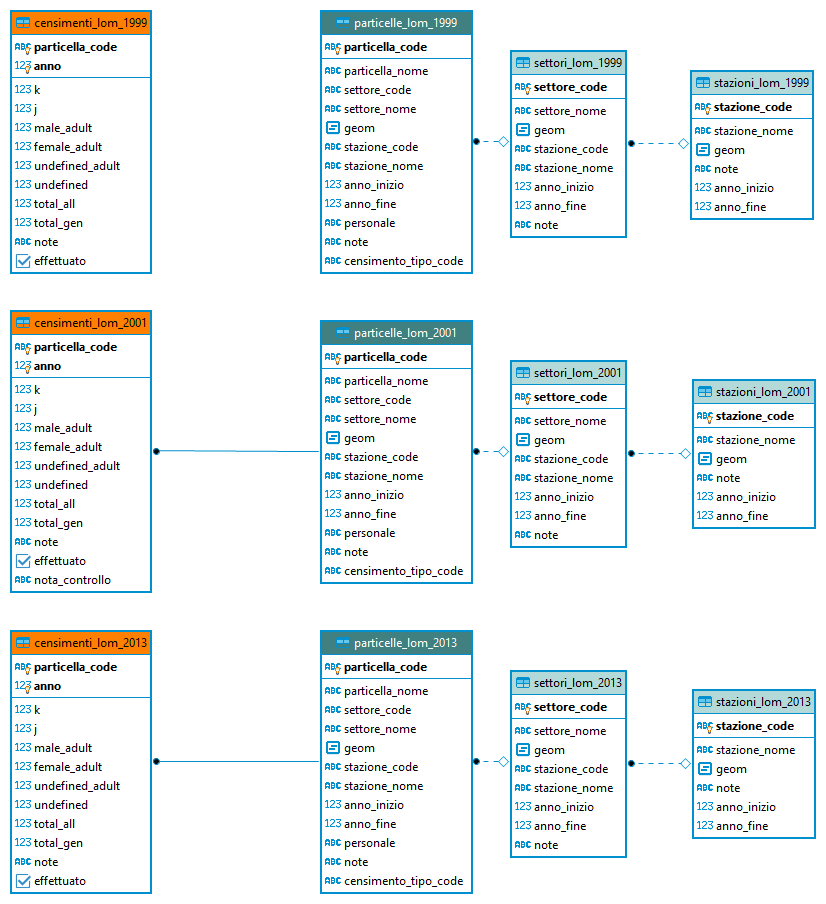
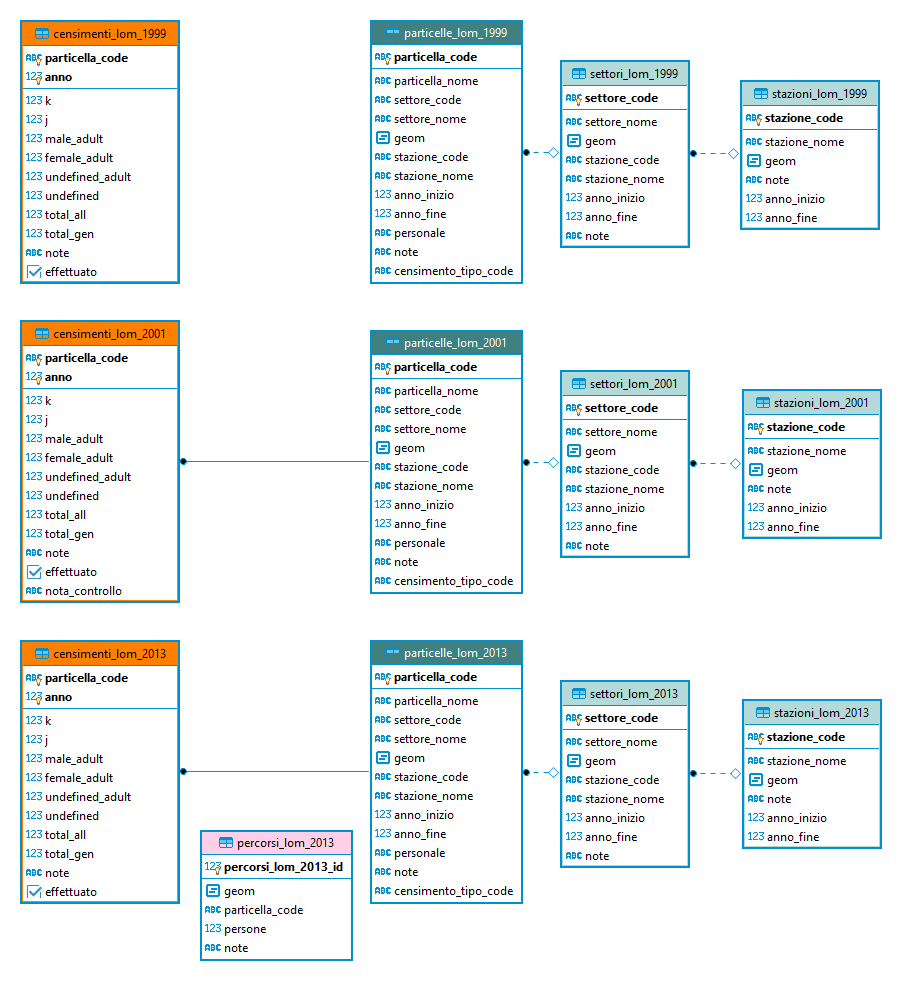
aggiunto stambecco - draft

diff --git a/README.md b/README.md
@@ -6,7 +6,7 @@
 
 Questo manuale è la descrizione del database fauna del **[Parco Nazionale dello Stelvio](www.stelviopark.it)** (PNS). L'obiettivo è documentarne la struttura e le procedure di aggiornamento e consultazione.
 
-Ultimo aggiornamento: **03/04/2020**  
+Ultimo aggiornamento: **22/05/2020**  
 Autore: **Ferdinando Urbano**  
 
 In collaborazione con:  
@@ -112,7 +112,7 @@ WHERE numero_individui_totale > 50;
 
 Una **chiave primaria**, nel modello relazionale delle basi di dati, è un insieme di attributi che permette di individuare univocamente un record in una tabella o relazione.  
 La chiave primaria è costituita da una o più colonne della tabella (in questo secondo caso viene definita chiave composta). La chiave primaria è unica per ogni tabella. Una tabella deve obbligatoriamente possedere una e una sola chiave primaria, e nessun record nella tabella può avere il valore, o i valori, di un campo attributo identificato dalla chiave primaria identico a quello di un qualsiasi altro valore della stessa (vincolo di unicità): il tentativo di inserimento di un tale valore genera un errore di violazione della chiave primaria.  
-Quando la chiave primaria è costituita da un solo campo, nel database è stata utilizzata la convenzione di chiamare quel campo *nome della tabella al singolare* + _ + *code*. Ad esempio, **plot_code** o **animale_code**. In genere questo corrisponde al nome con cui quell'oggetto viene comunemente chiamato e questo facilita l'uso del database e l'inserimento di nuovi dati quando si opera direttamente sulle tabelle. Quando invece questo non è stato possibile ad esempio perché non c'è un singolo campo o una combinazione di campi univoca che può essere utilizzata come chiave primaria, si è utilizzato un numero seriale (generato automaticamente dal database in modo da non essere mai ripetuto). In questo caso il nome convenzionale è *nome della tabella* + . + *id*. Ad esempio **uccelli_monitoraggio_id** (schema biodiversità). In questo caso, se il record è poi riferito da altre tabelle, andrà utilizzato questo numero generato dal database (quindi non noto a priori né riportato sulle schede di campo). Nel caso in cui il campo ha un valore codificato riconosciuto universalmente, invece del suffisso *_code* si è utilizzato *_name* (ad esempio *genus_name*).  
+Quando la chiave primaria è costituita da un solo campo, nel database è stata utilizzata la convenzione di chiamare quel campo *nome della tabella al singolare* + _ + *code*. Ad esempio, **plot_code** o **animale_code**. In genere questo corrisponde al nome con cui quell'oggetto viene comunemente chiamato e questo facilita l'uso del database e l'inserimento di nuovi dati quando si opera direttamente sulle tabelle. Quando invece questo non è stato possibile ad esempio perché non c'è un singolo campo o una combinazione di campi univoca che può essere utilizzata come chiave primaria, si è utilizzato un numero seriale (generato automaticamente dal database in modo da non essere mai ripetuto). In questo caso il nome convenzionale è *nome della tabella* + _ + *id*. Ad esempio **uccelli_monitoraggio_id** (schema biodiversità). In questo caso, se il record è poi riferito da altre tabelle, andrà utilizzato questo numero generato dal database (quindi non noto a priori né riportato sulle schede di campo). Nel caso in cui il campo ha un valore codificato riconosciuto universalmente, invece del suffisso *_code* si è utilizzato *_name* (ad esempio *genus_name*).  
 
 Come nota aggiuntiva, una **chiave esterna** è invece un insieme di attributi che fa riferimento a una chiave di un'altra tabella, permettendo in tal modo di esplicitare relazioni di tipo uno a molti tra tabelle attraverso quello che è chiamato vincolo di integrità referenziale. In concreto, i valori riportati nella tabella per uno o più campi, devono essere contenuti nella tabella di riferimento (potremmo dire che per avere un figlio devi prima avere un padre). Questi vincoli corrispondono alle linee che collegano le tabelle nei grafici ER (entità-relazioni) include in questo manuale.  
 
@@ -222,7 +222,7 @@ library(RPostgreSQL)
 drv <- dbDriver("PostgreSQL")
 con <- dbConnect(drv, dbname="pstelvio_db", host="RICHIEDI_QUESTA_INFO_AL_RESPONSABILE_SCIENTIFICO",
 port="5433", user="YOURUSER", password="YOURPASSWORD")
-rs <- dbSendQuery(con, "select * from biodiversita.epigei_monitoraggio;")
+rs <- dbSendQuery(con, "SELECT * FROM biodiversita.epigei_monitoraggio;")
 df <- fetch(rs,-1)
 df[1:4,]
 str(df)
@@ -351,31 +351,134 @@ Per inserire o modificare specie bisogna essere amministratori.
 
 #### Descrizione generale  
 
+```diff
+Descrizione generale del dataset censimenti camoscio, della sua organizzazione, e della raccolta dati
+```
+[...]  
+
+I dati di censimento del camoscio sono organizzati per settore del Parco (Trento, Bolzano, Lombardia). I dati fanno riferimento alle unità spaziali *Parcelle*. Le parcelle sono raggruppate in settori e in stazioni. Per Trento e Bolzano esiste anche un layer sub-particelle.  
+Visto che le unità spaziali di riferimento (particelle) sono cambiate nel tempo, i dataset sono stati divisi per intervalli temporali in cui le particelle non sono cambiate. Per convenzione nel nome dei layer il suffisso corrisponde all'anno di inizio di validità. Nelle tabelle spaziali i campi *anno_inizio* e *anno_fine* specificano l'intervallo di riferimento. Nelle tabelle dei censimenti questo non è necessario perché il campo *anno* da già l'inquadramento temporale preciso del dato.  
+
+Al momento non ci sono controlli formali nelle tabelle di censimento per garantire che i totali (*total_all* e *total_gen*) corrispondano effettivamente alla somma dei valori delel singole classi di sesso/età. Questi dovrebbero essere calcolati con una funzione una volta importati i parziali nel database.
+
+[...]  
+
 #### Struttura logica
 
 [![](images/schema_censimenti_camoscio_tn.png)](https://github.com/feurbano/pns_db/blob/master/images/schema_censimenti_camoscio_tn.png?raw=true)  
+**Censimenti camoscio Trento**  
 *Se il testo non è leggibile, clicca sull'immagine per ingrandire.*
+
 
 [![](images/schema_censimenti_camoscio_lom.png)](https://github.com/feurbano/pns_db/blob/master/images/schema_censimenti_camoscio_lom.png?raw=true)  
+**Censimenti camoscio Lombardia**  
 *Se il testo non è leggibile, clicca sull'immagine per ingrandire.*
+
 
 [![](images/schema_censimenti_camoscio_bz.png)](https://github.com/feurbano/pns_db/blob/master/images/schema_censimenti_camoscio_bz.png?raw=true)  
+**Censimenti camoscio Bolzano**  
 *Se il testo non è leggibile, clicca sull'immagine per ingrandire.*
+
 
 [![](images/schema_censimenti_camoscio_distribuzione.png)](https://github.com/feurbano/pns_db/blob/master/images/schema_censimenti_camoscio_distribuzione.png?raw=true)  
+**Camoscio Distribuzione**  
 *Se il testo non è leggibile, clicca sull'immagine per ingrandire.*
-
 
 #### Lista tabelle  
 
+| TABLE | DESCRIPTION |
+| ----- | ----------- |
+| **censimenti\_bz\_1999** | <sub>Quì andrà la descrizione della tabella presa dai commenti del database che devono ancora essere compilati.</sub> |
+| **censimenti\_lom\_1999** | <sub></sub> |
+| **censimenti\_lom\_2001** | <sub></sub> |
+| **censimenti\_lom\_2013** | <sub></sub> |
+| **censimenti\_tn\_1996** | <sub></sub> |
+| **censimenti\_tn\_1999** | <sub></sub> |
+| **distribuzione\_2010** | <sub></sub> |
+| **localizzazioni\_tn\_1999** | <sub></sub> |
+| **particelle\_bz\_1999** | <sub></sub> |
+| **particelle\_lom\_1999** | <sub></sub> |
+| **particelle\_lom\_2001** | <sub></sub> |
+| **particelle\_lom\_2013** | <sub></sub> |
+| **particelle\_tn\_1996** | <sub></sub> |
+| **particelle\_tn\_1999** | <sub></sub> |
+| **percorsi\_lom\_2013** | <sub></sub> |
+| **settori\_bz\_1999** | <sub></sub> |
+| **settori\_lom\_1999** | <sub></sub> |
+| **settori\_lom\_2001** | <sub></sub> |
+| **settori\_lom\_2013** | <sub></sub> |
+| **settori\_tn\_1996** | <sub></sub> |
+| **settori\_tn\_1999** | <sub></sub> |
+| **stazioni\_bz\_1999** | <sub></sub> |
+| **stazioni\_lom\_1999** | <sub></sub> |
+| **stazioni\_lom\_2001** | <sub></sub> |
+| **stazioni\_lom\_2013** | <sub></sub> |
+| **stazioni\_tn\_1996** | <sub></sub> |
+| **stazioni\_tn\_1999** | <sub></sub> |
+| **subparticelle\_bz\_1999** | <sub></sub> |
+| **subparticelle\_tn\_1996** | <sub></sub> |
+| **subparticelle\_tn\_1999** | <sub></sub> |
+
+| VIEW | DESCRIPTION |
+| ---- | ----------- |
+| **...** | <sub></sub> |
+
 #### Protocolli di inserimento dati  
+
+```diff
+Descrizione dei protocolli di inserimento dati per i prossimi censimenti
+```
+
+[...]  
+
+Nel caso in cui la geometria delle unità spaziali (particelle) vari, devono essere create delle nuove tabelle particelle, stazioni, settori e censimenti con suffisso l'anno di inizio. Andranno poi specificate nelle tabelle del periodo precedente, l'anno di fine di validità (che è nullo per i layer "attivi"). I layer di stazioni e settori dovrebbe essere derivati da quello delle particelle con una operazione di union [*st_union(geom)*]. Se ci sono problemi di inconsistenza topologica, si possono utlizzare gli strumenti di PostGIS per correggerli.
+
+[...]  
 
 ## <a name="Censimenti_stambecco"></a> Dati Censimenti Stambecco  
 
 #### Descrizione generale  
 
+```diff
+Descrizione generale del dataset censimenti stambecco, della sua organizzazione, e della raccolta dati
+```
+[...]  
+
+
 #### Struttura logica
+
+[![](images/schema_censimenti_stambecco.png)](https://github.com/feurbano/pns_db/blob/master/images/schema_censimenti_stambecco.png?raw=true)  
+*Se il testo non è leggibile, clicca sull'immagine per ingrandire.*
 
 #### Lista tabelle  
 
+| TABLE | DESCRIPTION |
+| ----- | ----------- |
+| **avvistamenti\_occasionali** | <sub></sub> |
+| **censimenti\_2001** | <sub></sub> |
+| **censimenti\_2011** | <sub></sub> |
+| **colonie\_2011** | <sub></sub> |
+| **distribuzione\_1998** | <sub></sub> |
+| **distribuzione\_2004** | <sub></sub> |
+| **distribuzione\_2010** | <sub></sub> |
+| **distribuzione\_2011** | <sub></sub> |
+| **particelle\_2001** | <sub></sub> |
+| **particelle\_2011** | <sub></sub> |
+| **percorsi\_2011** | <sub></sub> |
+| **settori\_2001** | <sub></sub> |
+| **settori\_2011** | <sub></sub> |
+| **stazioni\_2001** | <sub></sub> |
+| **stazioni\_2011** | <sub></sub> |
+
+| VIEW | DESCRIPTION |
+| ---- | ----------- |
+| **...** | <sub></sub> |
+
 #### Protocolli di inserimento dati  
+
+
+```diff
+Descrizione dei protocolli di inserimento dati per i prossimi censimenti
+```
+
+[...]
